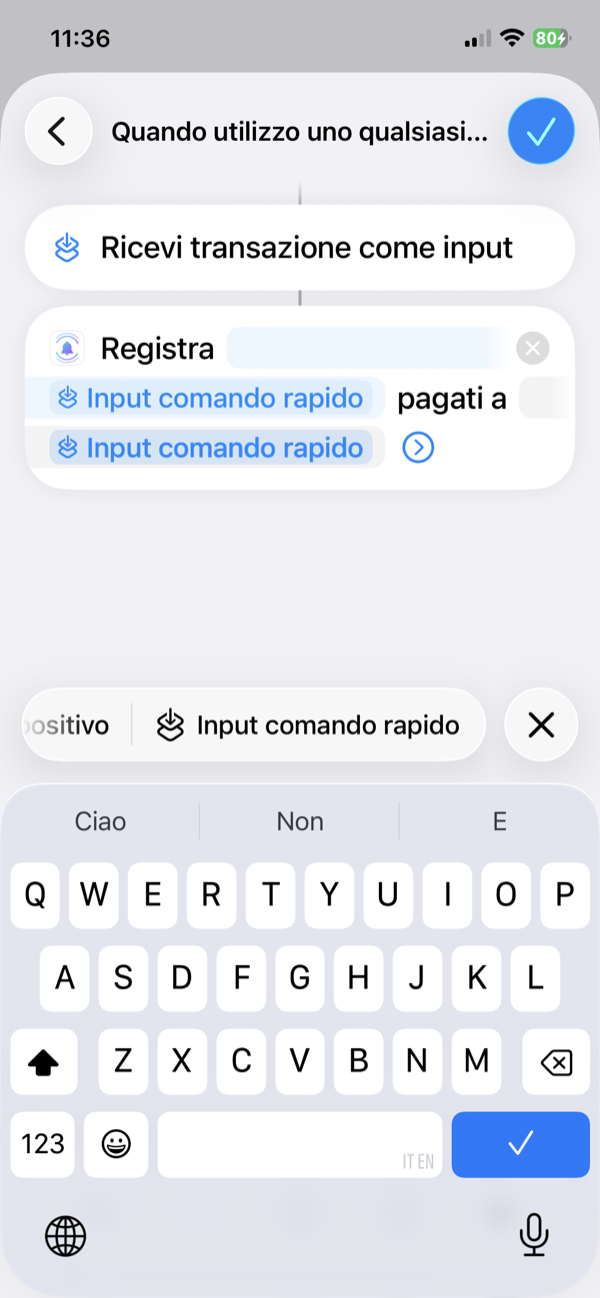
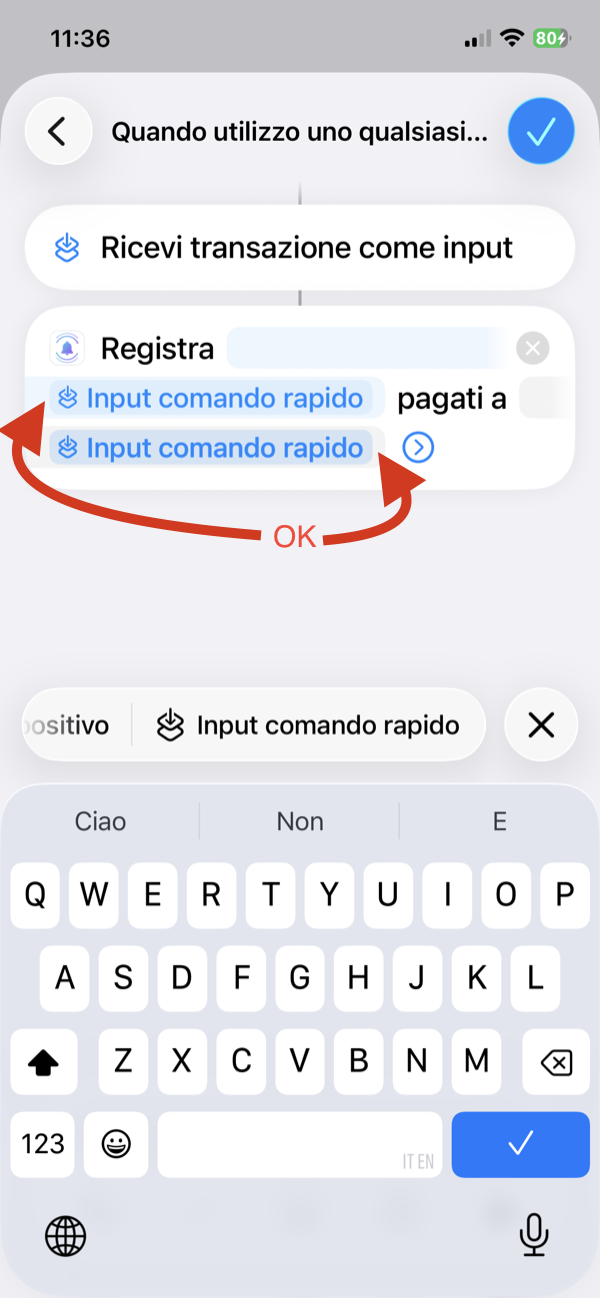
Guida Wallet IT: rimossa 05, screenshot riannotati, didascalie riallineate
05-blocco-registra.png rimosso: il suo contenuto (il blocco appena
aggiunto, campi vuoti) è ora implicito nei nuovi screenshot 06 e 07,
che spiegano entrambi i campi con testo e frecce direttamente
nell'immagine invece che in due scatti separati.

03 ora mostra anche il tap su "Avanti" (copre 5–8, non più solo 5–7).
06/07/08 sono stati riannotati e il loro contenuto non corrisponde più
letteralmente ai vecchi nomi file (es. 07-seleziona-importo.png ora
mostra la verifica "entrambi i campi pronti", non la selezione dal
menu) — non li ho rinominati per non generare altro churn, ma le
didascalie/alt ora descrivono quello che le immagini mostrano
davvero, non il nome del file.

Guida IT: da 8 a 7 screenshot, 17 passi invariati.

Changed region(s): [[0.0, 0.3082, 0.69, 0.4314]]

diff --git a/spese-ricorrenti/automazione-wallet.html b/spese-ricorrenti/automazione-wallet.html
@@ -78,28 +78,24 @@
     <figcaption>4. Seleziona Wallet come trigger</figcaption>
   </figure>
   <figure>
-    <img src="assets/wallet-guide/03-categorie-esegui-subito.png" alt="Schermata categorie con tutte le voci selezionate ed Esegui immediatamente attivo.">
-    <figcaption>5–7. Carte, categorie ed Esegui immediatamente</figcaption>
+    <img src="assets/wallet-guide/03-categorie-esegui-subito.png" alt="Schermata categorie con tutte le voci selezionate, Esegui immediatamente attivo e il pulsante Avanti in alto a destra.">
+    <figcaption>5–8. Carte, categorie, Esegui immediatamente e Avanti</figcaption>
   </figure>
   <figure>
     <img src="assets/wallet-guide/04-cerca-skurda.png" alt="Ricerca di Skurda tra le azioni, con Registra pagamento tra i risultati.">
     <figcaption>10–11. Cerca «Skurda» → Registra pagamento</figcaption>
   </figure>
   <figure>
-    <img src="assets/wallet-guide/05-blocco-registra.png" alt="Blocco Registra Importo pagati a Esercente appena aggiunto, campi ancora vuoti.">
-    <figcaption>12. Il blocco appena aggiunto</figcaption>
+    <img src="assets/wallet-guide/06-input-comando-rapido.png" alt="Campo Importo appena toccato, con il suggerimento Input comando rapido sopra la tastiera.">
+    <figcaption>13–14. Tocca Importo, poi Esercente: scegli «Input comando rapido» per entrambi</figcaption>
   </figure>
   <figure>
-    <img src="assets/wallet-guide/06-input-comando-rapido.png" alt="Entrambi i campi mostrano il segnaposto Input comando rapido.">
-    <figcaption>13–14. «Input comando rapido» in entrambi i campi</figcaption>
+    <img src="assets/wallet-guide/07-seleziona-importo.png" alt="Entrambi i campi mostrano ora il segnaposto Input comando rapido.">
+    <figcaption>13–14. Fatto: entrambi i campi mostrano «Input comando rapido»</figcaption>
   </figure>
   <figure>
-    <img src="assets/wallet-guide/07-seleziona-importo.png" alt="Menu Input comando rapido con Importo pronto per essere selezionato.">
-    <figcaption>15. Seleziona Importo dal menu</figcaption>
-  </figure>
-  <figure>
-    <img src="assets/wallet-guide/08-risultato-finale.png" alt="Blocco finale: Registra Importo pagati a Esercente con entrambe le variabili collegate.">
-    <figcaption>16. Importo ed Esercente collegati</figcaption>
+    <img src="assets/wallet-guide/08-risultato-finale.png" alt="Blocco finale: Registra Importo pagati a Esercente con entrambe le variabili collegate, menu Input comando rapido con Esercente selezionato.">
+    <figcaption>15–16. Seleziona Importo, poi Esercente, dal menu</figcaption>
   </figure>
 </div>
 
